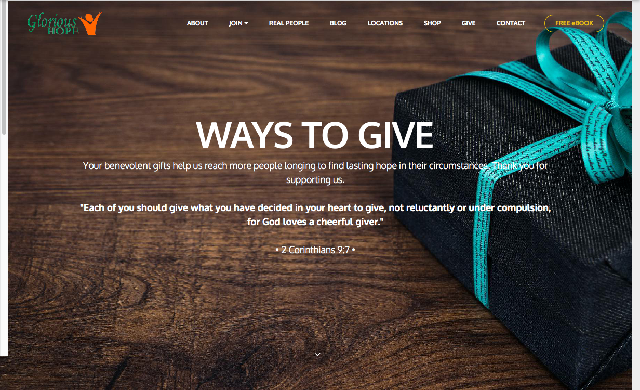
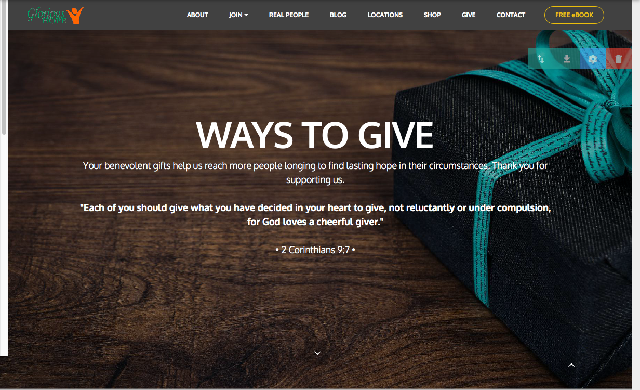
Jan 19 2017 3:56:24PM

diff --git a/Real People Sub Page.html b/Real People Sub Page.html
@@ -73,7 +73,7 @@
 
 </section>
 
-<section class="engine"><a rel="external" href="https://mobirise.com">top drag and drop web site maker software</a></section><section class="mbr-section article mbr-parallax-background mbr-after-navbar" id="msg-box8-30" style="background-image: url(assets/images/backgroundv2-2000x1125-58.jpg); padding-top: 120px; padding-bottom: 80px;">
+<section class="engine"><a rel="external" href="https://mobirise.com">easy mobile web building software</a></section><section class="mbr-section article mbr-parallax-background mbr-after-navbar" id="msg-box8-30" style="background-image: url(assets/images/backgroundv2-2000x1125-58.jpg); padding-top: 120px; padding-bottom: 80px;">
 
     
     <div class="container">
@@ -268,7 +268,7 @@
         <div class="mbr-cards-col col-xs-12 col-lg-2" style="padding-top: 40px; padding-bottom: 0px;">
             <div class="container">
               <div class="card cart-block">
-                  <div class="card-img"><img src="assets/images/female-portrait-600x403-6218.jpg" class="card-img-top" alt="Tiffany Ocampo" title="Tiffany Ocampo"></div>
+                  <div class="card-img"><img src="assets/images/female-portrait-600x403-6230.jpg" class="card-img-top" alt="Tiffany Ocampo" title="Tiffany Ocampo"></div>
                   <div class="card-block">
                     <h4 class="card-title">Resting In His Promises</h4>
                     <h5 class="card-subtitle">Tiffany Ocampo</h5>
@@ -281,7 +281,7 @@
         <div class="mbr-cards-col col-xs-12 col-lg-2" style="padding-top: 40px; padding-bottom: 0px;">
             <div class="container">
                 <div class="card cart-block">
-                    <div class="card-img"><img src="assets/images/male-portrait-600x403-7519.jpg" class="card-img-top" alt="Joseph Tanchi" title="Joseph Tanchi"></div>
+                    <div class="card-img"><img src="assets/images/male-portrait-600x403-7531.jpg" class="card-img-top" alt="Joseph Tanchi" title="Joseph Tanchi"></div>
                     <div class="card-block">
                         <h4 class="card-title">Moving out, Moving In</h4>
                         <h5 class="card-subtitle">Joseph Tanchi</h5>
@@ -294,7 +294,7 @@
         <div class="mbr-cards-col col-xs-12 col-lg-2" style="padding-top: 40px; padding-bottom: 0px;">
             <div class="container">
                 <div class="card cart-block">
-                    <div class="card-img"><img src="assets/images/female-portrait-2-600x403-5820.jpg" class="card-img-top" alt="Annabelle Young" title="Annabelle Young"></div>
+                    <div class="card-img"><img src="assets/images/female-portrait-2-600x403-5832.jpg" class="card-img-top" alt="Annabelle Young" title="Annabelle Young"></div>
                     <div class="card-block">
                         <h4 class="card-title">Experiencing God’s Hand</h4>
                         <h5 class="card-subtitle">Annabelle Young</h5>
@@ -307,7 +307,7 @@
         <div class="mbr-cards-col col-xs-12 col-lg-2" style="padding-top: 40px; padding-bottom: 0px;">
             <div class="container">
                 <div class="card cart-block">
-                    <div class="card-img"><img src="assets/images/male-portrait-2-600x403-7821.jpg" class="card-img-top" alt="Jojo Macatangay" title="Jojo Macatangay"></div>
+                    <div class="card-img"><img src="assets/images/male-portrait-2-600x403-7833.jpg" class="card-img-top" alt="Jojo Macatangay" title="Jojo Macatangay"></div>
                     <div class="card-block">
                         <h4 class="card-title">Only by Grace</h4>
                         <h5 class="card-subtitle">Jojo Macatangay</h5>
@@ -320,7 +320,7 @@
         <div class="mbr-cards-col col-xs-12 col-lg-2" style="padding-top: 40px; padding-bottom: 0px;">
             <div class="container">
                 <div class="card cart-block">
-                    <div class="card-img"><img src="assets/images/female-portrait-600x403-4422.jpg" class="card-img-top"></div>
+                    <div class="card-img"><img src="assets/images/female-portrait-600x403-4434.jpg" class="card-img-top"></div>
                     <div class="card-block">
                         <h4 class="card-title">Resting In His Promises</h4>
                         <h5 class="card-subtitle">Tiffany Ocampo</h5>
@@ -333,7 +333,7 @@
         <div class="mbr-cards-col col-xs-12 col-lg-2" style="padding-top: 40px; padding-bottom: 0px;">
             <div class="container">
                 <div class="card cart-block">
-                    <div class="card-img"><img src="assets/images/female-portrait-2-600x403-9723.jpg" class="card-img-top"></div>
+                    <div class="card-img"><img src="assets/images/female-portrait-2-600x403-9735.jpg" class="card-img-top"></div>
                     <div class="card-block">
                         <h4 class="card-title">Experiencing God’s Hand</h4>
                         <h5 class="card-subtitle">Annabelle Young</h5>

diff --git a/Contact.html b/Contact.html
@@ -73,7 +73,7 @@
 
 </section>
 
-<section class="engine"><a rel="external" href="https://mobirise.com">best html web site development software download</a></section><section class="mbr-section mbr-parallax-background mbr-after-navbar" id="form1-25" style="background-image: url(assets/images/backgroundv2-2000x1125-84.jpg); padding-top: 160px; padding-bottom: 120px;">
+<section class="engine"><a rel="external" href="https://mobirise.com">free web creator</a></section><section class="mbr-section mbr-parallax-background mbr-after-navbar" id="form1-25" style="background-image: url(assets/images/backgroundv2-2000x1125-84.jpg); padding-top: 160px; padding-bottom: 120px;">
     
     <div class="mbr-section mbr-section__container mbr-section__container--middle">
         <div class="container">
@@ -100,7 +100,7 @@ Have a blessed day ahead!</div>
 
                     <form action="https://mobirise.com/" method="post" data-form-title="CONTACT US">
 
[2 lines of base64/hex data omitted]
 
                         <div class="row row-sm-offset">
 

diff --git a/Give.html b/Give.html
@@ -75,9 +75,9 @@
 
 </section>
 
-<section class="engine"><a rel="external" href="https://mobirise.com">drag and drop web site design</a></section><section class="mbr-section mbr-section-hero mbr-section-full mbr-parallax-background mbr-section-with-arrow mbr-after-navbar" id="header1-1v" style="background-image: url(assets/images/gift-1420830-1920-2000x1111-34.jpg);">
+<section class="engine"><a rel="external" href="https://mobirise.com">responsive web page maker</a></section><section class="mbr-section mbr-section-hero mbr-section-full mbr-parallax-background mbr-section-with-arrow mbr-after-navbar" id="header1-1v" style="background-image: url(assets/images/gift-1420830-1920-2000x1111-34.jpg);">
 
-    
+    <div class="mbr-overlay" style="opacity: 0.3; background-color: rgb(0, 0, 0);"></div>
 
     <div class="mbr-table-cell">
 

diff --git a/Under Construction.html b/Under Construction.html
@@ -73,7 +73,7 @@
 
 </section>
 
-<section class="engine"><a rel="external" href="https://mobirise.com">best wysiwyg site design software download</a></section><section class="mbr-section mbr-section-hero mbr-section-full mbr-parallax-background mbr-section-with-arrow mbr-after-navbar" id="header1-4z" style="background-image: url(assets/images/backgroundv2-2000x1125-51.jpg);">
+<section class="engine"><a rel="external" href="https://mobirise.com">simple offline web generator software download</a></section><section class="mbr-section mbr-section-hero mbr-section-full mbr-parallax-background mbr-section-with-arrow mbr-after-navbar" id="header1-4z" style="background-image: url(assets/images/backgroundv2-2000x1125-51.jpg);">
 
     <div class="mbr-overlay" style="opacity: 0.7; background-color: rgb(0, 0, 0);"></div>
 

diff --git a/Bank Transfer.html b/Bank Transfer.html
@@ -73,7 +73,7 @@
 
 </section>
 
-<section class="engine"><a rel="external" href="https://mobirise.com">best mobile web site development</a></section><section class="mbr-section mbr-section-hero mbr-section-full mbr-parallax-background mbr-section-with-arrow mbr-after-navbar" id="header1-5l" style="background-image: url(assets/images/close-up-1835934-1920-2000x1323-65.jpg);">
+<section class="engine"><a rel="external" href="https://mobirise.com">offline web site building</a></section><section class="mbr-section mbr-section-hero mbr-section-full mbr-parallax-background mbr-section-with-arrow mbr-after-navbar" id="header1-5l" style="background-image: url(assets/images/close-up-1835934-1920-2000x1323-65.jpg);">
 
     <div class="mbr-overlay" style="opacity: 0.4; background-color: rgb(0, 0, 0);"></div>
 

diff --git a/Blog.html b/Blog.html
@@ -73,7 +73,7 @@
 
 </section>
 
-<section class="engine"><a rel="external" href="https://mobirise.com">easy mobile website builder software download</a></section><section class="mbr-section article mbr-parallax-background mbr-after-navbar" id="msg-box8-38" style="background-image: url(assets/images/blog-autumn-2000x1250-3.jpg); padding-top: 120px; padding-bottom: 80px;">
+<section class="engine"><a rel="external" href="https://mobirise.com">mobile site generator software</a></section><section class="mbr-section article mbr-parallax-background mbr-after-navbar" id="msg-box8-38" style="background-image: url(assets/images/blog-autumn-2000x1250-3.jpg); padding-top: 120px; padding-bottom: 80px;">
 
     <div class="mbr-overlay" style="opacity: 0.5; background-color: rgb(34, 34, 34);">
     </div>

diff --git a/About.html b/About.html
@@ -73,7 +73,7 @@
 
 </section>
 
-<section class="engine"><a rel="external" href="https://mobirise.com">free html web page maker software</a></section><section class="mbr-section mbr-section-hero mbr-section-full mbr-parallax-background mbr-section-with-arrow mbr-after-navbar" id="header1-v" style="background-image: url(assets/images/backgroundv2-2000x1125-19.jpg);">
+<section class="engine"><a rel="external" href="https://mobirise.com">simple responsive web development software download</a></section><section class="mbr-section mbr-section-hero mbr-section-full mbr-parallax-background mbr-section-with-arrow mbr-after-navbar" id="header1-v" style="background-image: url(assets/images/backgroundv2-2000x1125-19.jpg);">
 
     
 

diff --git a/Shop.html b/Shop.html
@@ -73,7 +73,7 @@
 
 </section>
 
-<section class="engine"><a rel="external" href="https://mobirise.com">best drag and drop web site builder software</a></section><section class="mbr-section mbr-section-hero mbr-section-full mbr-parallax-background mbr-section-with-arrow mbr-after-navbar" id="header1-1p" style="background-image: url(assets/images/backgroundv2-2000x1125-87.jpg);">
+<section class="engine"><a rel="external" href="https://mobirise.com">best wysiwyg web site generator</a></section><section class="mbr-section mbr-section-hero mbr-section-full mbr-parallax-background mbr-section-with-arrow mbr-after-navbar" id="header1-1p" style="background-image: url(assets/images/backgroundv2-2000x1125-87.jpg);">
 
     
 

diff --git a/index.html b/index.html
@@ -73,7 +73,7 @@
 
 </section>
 
-<section class="engine"><a rel="external" href="https://mobirise.com">drag and drop web design software</a></section><section class="mbr-section mbr-section-hero mbr-section-full mbr-parallax-background mbr-section-with-arrow mbr-after-navbar" id="header1-2" style="background-image: url(assets/images/backgroundv2-2000x1125-51.jpg);">
+<section class="engine"><a rel="external" href="https://mobirise.com">simple bootstrap web builder software</a></section><section class="mbr-section mbr-section-hero mbr-section-full mbr-parallax-background mbr-section-with-arrow mbr-after-navbar" id="header1-2" style="background-image: url(assets/images/backgroundv2-2000x1125-51.jpg);">
 
     
 

diff --git a/Locations.html b/Locations.html
@@ -73,7 +73,7 @@
 
 </section>
 
-<section class="engine"><a rel="external" href="https://mobirise.com">free html web page generator</a></section><section class="mbr-section mbr-section-hero mbr-section-full mbr-parallax-background mbr-section-with-arrow mbr-after-navbar" id="header1-19" style="background-image: url(assets/images/backgroundv2-2000x1125-73.jpg);">
+<section class="engine"><a rel="external" href="https://mobirise.com">free drag and drop web site development</a></section><section class="mbr-section mbr-section-hero mbr-section-full mbr-parallax-background mbr-section-with-arrow mbr-after-navbar" id="header1-19" style="background-image: url(assets/images/backgroundv2-2000x1125-73.jpg);">
 
     
 

diff --git a/Join.html b/Join.html
@@ -73,7 +73,7 @@
 
 </section>
 
-<section class="engine"><a rel="external" href="https://mobirise.com">website building</a></section><section class="mbr-section mbr-section-hero mbr-section-full mbr-parallax-background mbr-section-with-arrow mbr-after-navbar" id="header1-6" style="background-image: url(assets/images/backgroundv2-2000x1125-36.jpg);">
+<section class="engine"><a rel="external" href="https://mobirise.com">simple web site development software download</a></section><section class="mbr-section mbr-section-hero mbr-section-full mbr-parallax-background mbr-section-with-arrow mbr-after-navbar" id="header1-6" style="background-image: url(assets/images/backgroundv2-2000x1125-36.jpg);">
 
     
 

diff --git a/Real People.html b/Real People.html
@@ -73,7 +73,7 @@
 
 </section>
 
-<section class="engine"><a rel="external" href="https://mobirise.com">free html web site design</a></section><section class="mbr-section mbr-section-hero mbr-section-full mbr-parallax-background mbr-section-with-arrow mbr-after-navbar" id="header1-13" style="background-image: url(assets/images/backgroundv2-2000x1125-46.jpg);">
+<section class="engine"><a rel="external" href="https://mobirise.com">best drag and drop site design</a></section><section class="mbr-section mbr-section-hero mbr-section-full mbr-parallax-background mbr-section-with-arrow mbr-after-navbar" id="header1-13" style="background-image: url(assets/images/backgroundv2-2000x1125-46.jpg);">
 
     
 
